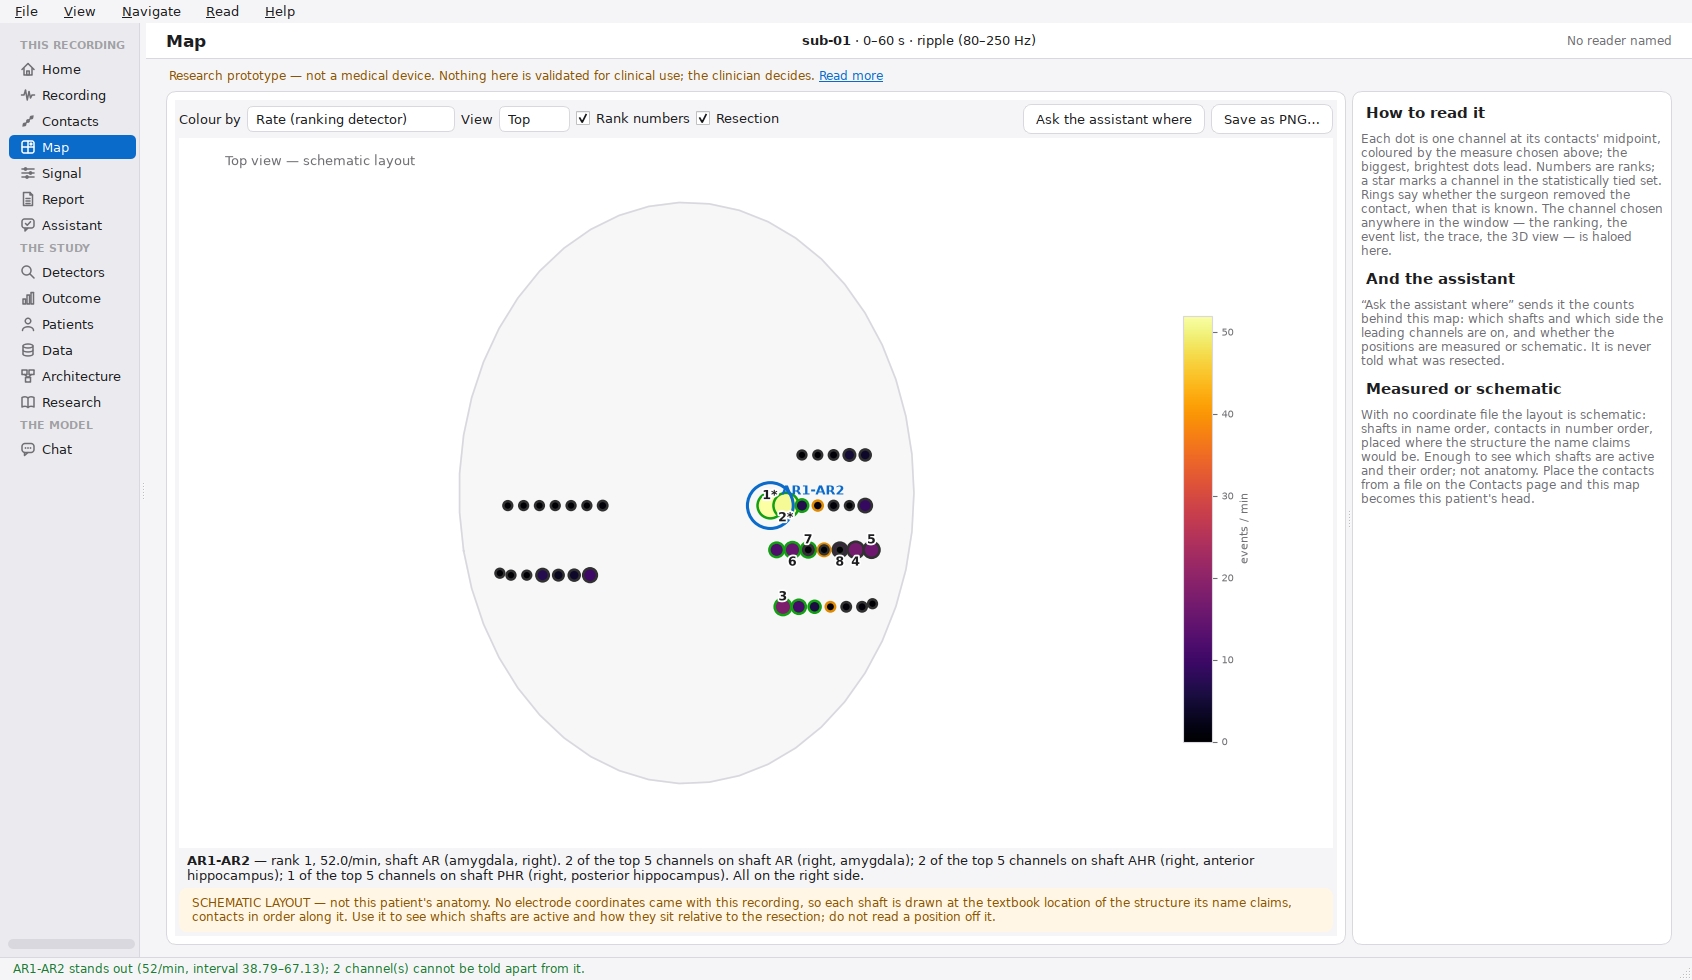
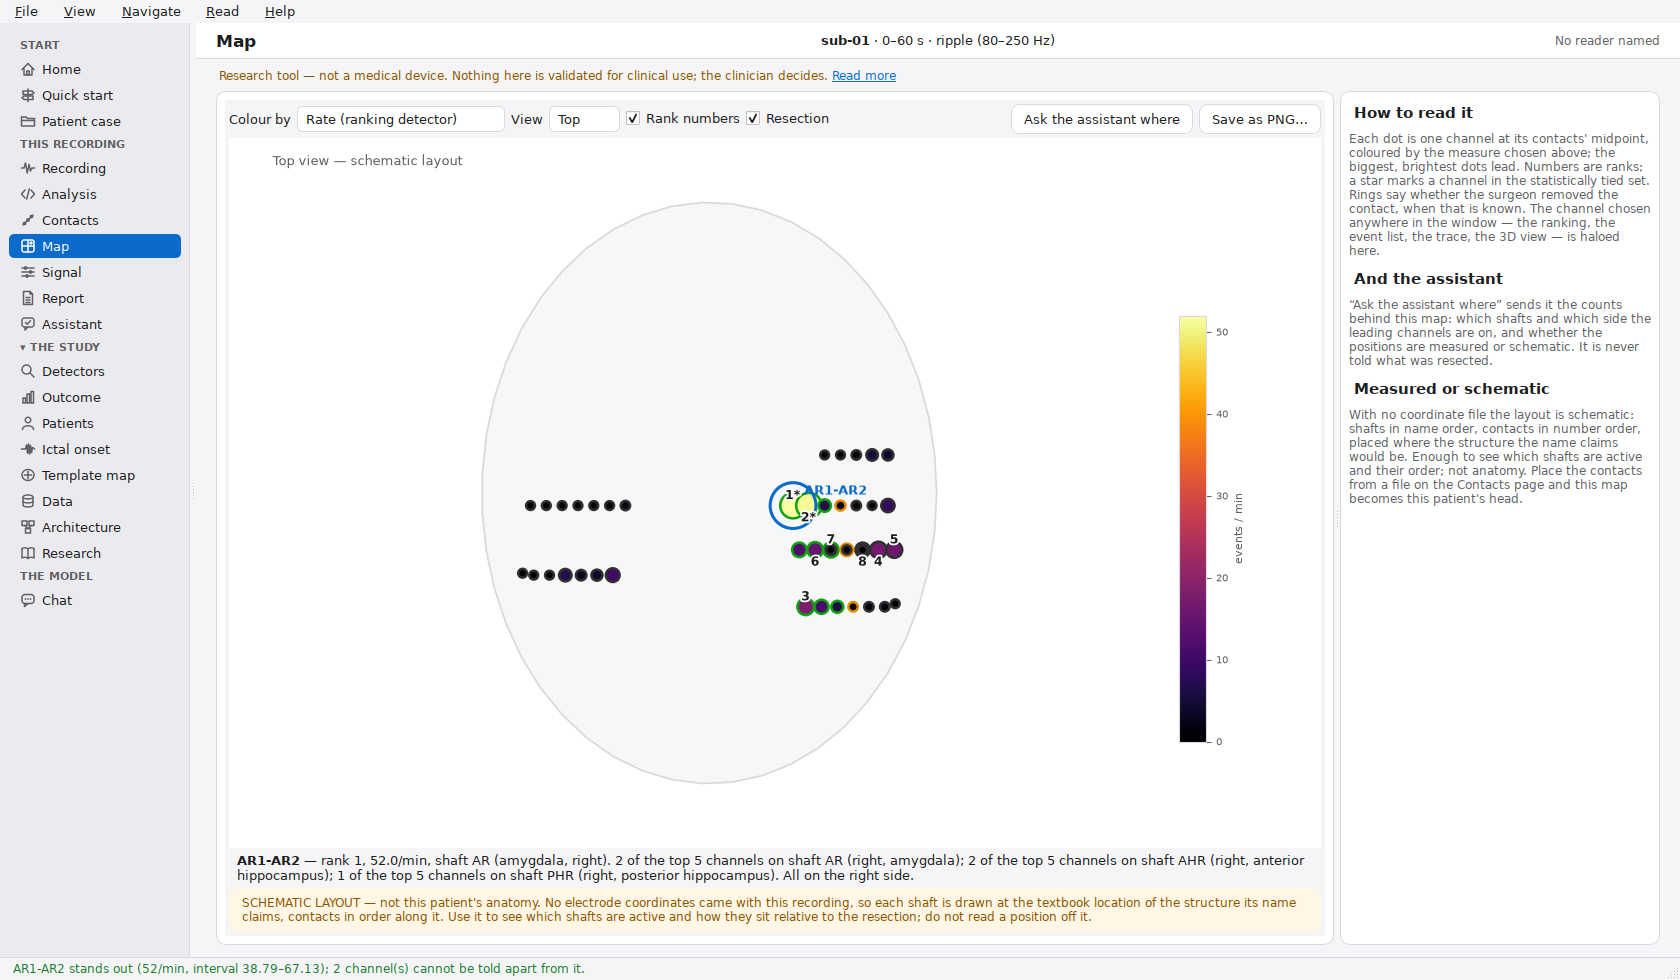
Screenshots: retake the pages with today's sidebar, add Quick start and OpenNeuro
The documentation and page-preview pictures showed the sidebar from before
the Start group, the Analysis templates, Ictal onset and Template map.
Rendered again from the same window (ds003498 sub-01, 0-60 s) through the
app's own --screenshot path: Recording, Analysis, Contacts, Map, Signal,
Report, Assistant, Chat, Detectors (this recording), a study page (Ictal
onset) and Home as the window opens. New: the Quick start page and the
Open from OpenNeuro dialog, in the clinical guide and docs/DATA.md.

Home gains a From OpenNeuro… first-move button, with a test.

Claude-Session: https://claude.ai/code/session_01TmwprQPHqRNDexbPVwELoA

diff --git a/onset-hfo/onset_review/pages.py b/onset-hfo/onset_review/pages.py
@@ -622,6 +622,9 @@ class PageWindow(QMainWindow):
                      "EDF, BrainVision, FIF, Nihon Kohden and more"),
                     ("do:open-recording", "Open a public recording…",
                      "Choose a patient, a window, the band and the detectors"),
+                    ("do:openneuro", "From OpenNeuro…",
+                     "Find any of OpenNeuro's EEG and iEEG datasets by name and "
+                     "download a window of one"),
                     ("do:new-case", "Start a patient case…",
                      "One patient's recordings, step by step to a signed report"),
                     ("page:quickstart", "Quick start guide",

diff --git a/onset-hfo/tests/test_guide.py b/onset-hfo/tests/test_guide.py
@@ -178,3 +178,13 @@ def test_text_keeps_wcag_aa_contrast_on_every_background(name):
     for background in (palette.window, palette.surface, palette.sidebar):
         for foreground in (palette.text, palette.text_muted):
             assert _contrast(foreground, background) >= 4.5, (name, foreground, background)
+
+
+def test_home_offers_openneuro_beside_the_other_first_moves(start):
+    from qtpy.QtWidgets import QPushButton
+
+    start.show_page("home")
+    button = start.findChild(QPushButton, "onset_start_openneuro")
+    assert button is not None and button.text() == "From OpenNeuro…"
+    button.click()
+    assert start.calls["openneuro"] == 1

diff --git a/onset-hfo/docs/CLINICAL_GUIDE.md b/onset-hfo/docs/CLINICAL_GUIDE.md
@@ -16,6 +16,8 @@ Thirty minutes of reading. The last section is the one that matters.
 
 You don't need to know the menus to start.
 
+![The Quick start page: the program laid out as the jobs people come with, every step a link](images/onset-review-quickstart.png)
+
 - **Quick start** (sidebar, *Help → Quick start guide*, or **F1**) lays the
   program out as the jobs people come with:
   - look at a recording;
@@ -1422,7 +1424,11 @@ assistant work on it unchanged.
 | Neuralynx | any `.ncs` in the recording's folder |
 | Curry, EEGLAB, EGI, Neuroscan, Eximia, MNE | `.cdt`, `.set`, `.mff`, `.cnt`, `.nxe`, `.fif` |
 
-**A public recording instead: File → Open from OpenNeuro…**
+**A public recording instead: File → Open from OpenNeuro…** (also *From
+OpenNeuro…* on Home)
+
+![Open from OpenNeuro: the catalogue searched for "epilepsy", and the HUP dataset's recordings listed](images/onset-review-openneuro.png)
+
 1. Search the catalogue of OpenNeuro's EEG and iEEG datasets by name (for
    example *epilepsy*), or type any dataset id, such as `ds004100`.
    Double-click a dataset or press *List recordings*. The dialog shows the

diff --git a/onset-hfo/docs/DATA.md b/onset-hfo/docs/DATA.md
@@ -451,7 +451,10 @@ python -m onset_hfo.cli openneuro fetch ds004100 --subject HUP060 --task ictal \
        --t-start 100 --t-stop 130       # prints the window's local file
 ```
 
-**In the desktop app**, *File → Open from OpenNeuro…*:
+![Open from OpenNeuro: the catalogue searched for "epilepsy", and the HUP dataset's recordings listed](images/onset-review-openneuro.png)
+
+**In the desktop app**, *File → Open from OpenNeuro…* (or *From OpenNeuro…* on
+Home):
 1. Search the catalogue by name, or type any id. Double-click a dataset, or
    press *List recordings*. The app runs offline unless started with
    `--allow-fetch`; this dialog reaches openneuro.org anyway, because choosing
